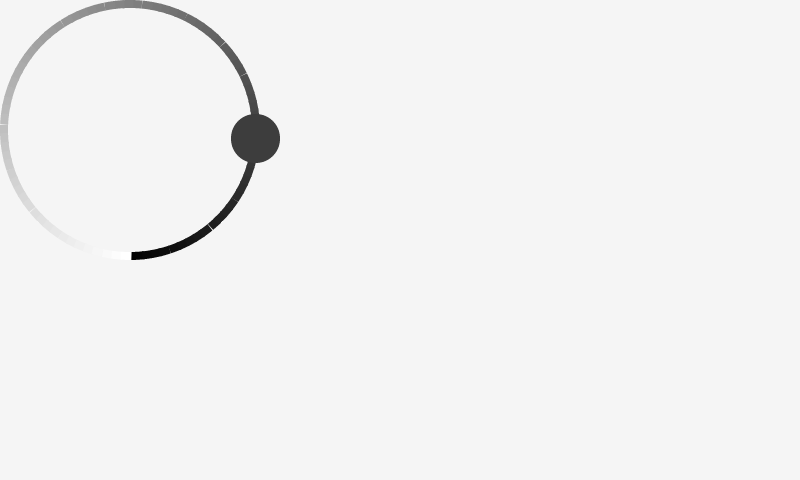
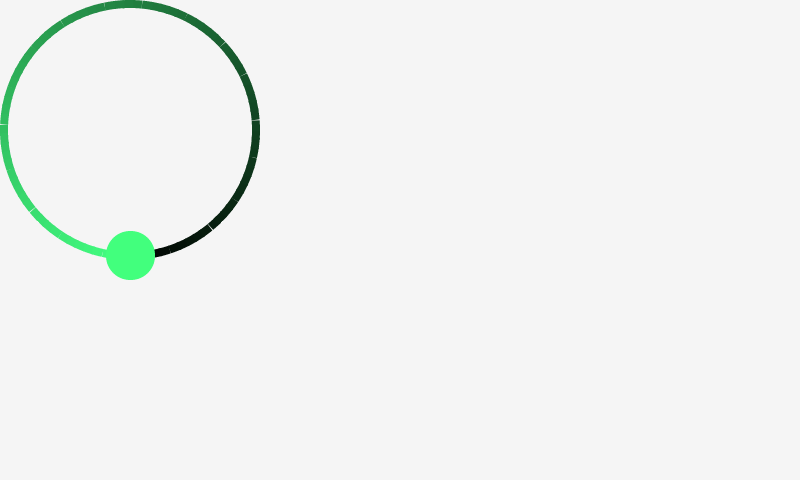
Changed color to be a little bit less black

diff --git a/tests/src/test_cases/test_colorwheel.c b/tests/src/test_cases/test_colorwheel.c
@@ -201,7 +201,7 @@ void test_colorwheel_angle_to_mode_color_fast_in_mode_value(void)
 {
     lv_colorwheel_set_mode(colorwheel, LV_COLORWHEEL_MODE_VALUE);
 
-    lv_colorwheel_set_hsv(colorwheel, lv_color_rgb_to_hsv(63, 63, 63));
+    lv_colorwheel_set_hsv(colorwheel, lv_color_rgb_to_hsv(64, 255, 128));
 
     TEST_ASSERT_EQUAL_SCREENSHOT("colorwheel_02.png");
 }
@@ -210,7 +210,7 @@ void test_colorwheel_angle_to_mode_color_fast_in_mode_saturation(void)
 {
     lv_colorwheel_set_mode(colorwheel, LV_COLORWHEEL_MODE_SATURATION);
 
-    lv_colorwheel_set_hsv(colorwheel, lv_color_rgb_to_hsv(63, 63, 63));
+    lv_colorwheel_set_hsv(colorwheel, lv_color_rgb_to_hsv(64, 255, 128));
 
     TEST_ASSERT_EQUAL_SCREENSHOT("colorwheel_03.png");
 }
